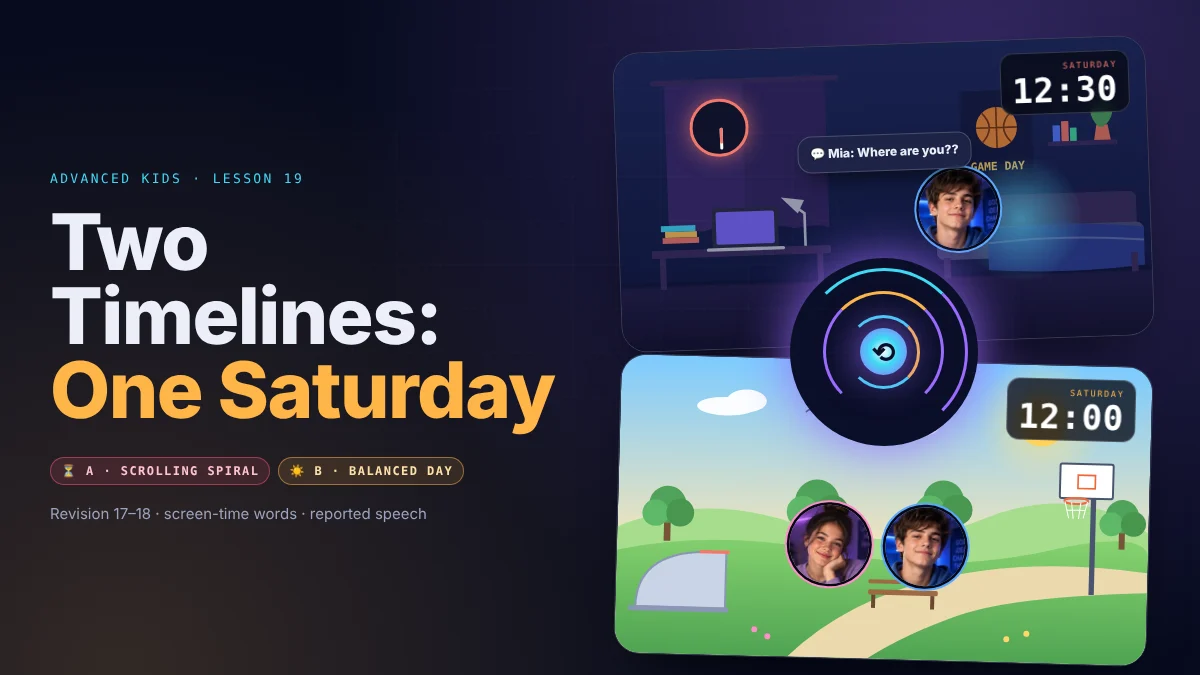
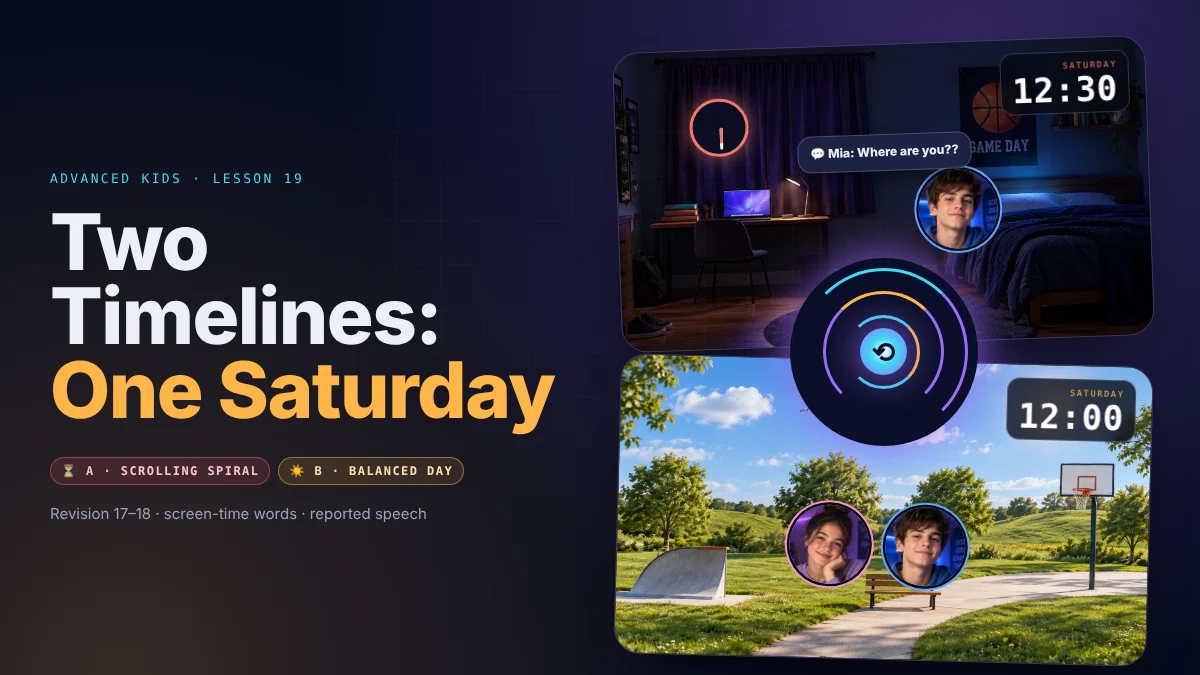
Add files via upload

Changed region(s): [[0.4933, 0.0311, 0.9867, 0.9956], [0.925, 0.5289, 0.9558, 0.56], [0.8017, 0.5289, 0.8325, 0.56]]

diff --git a/lessons/lesson-19/lesson-19.html b/lessons/lesson-19/lesson-19.html
@@ -1073,6 +1073,12 @@ details.ideas summary{cursor:pointer; font-weight:800}
 @media (max-width:760px){ .s7 div{grid-template-columns:1fr} .verbs[style]{grid-template-columns:1fr!important} }
 .sph .grow{flex:1 1 auto; min-width:0}
 .sph .tag{flex:0 0 auto; font-size:10.5px; padding:3px 8px}
+/* photo scene backgrounds */
+.art>img.bg{position:absolute; inset:0; width:100%; height:100%; object-fit:cover; display:block; z-index:0; user-select:none}
+.art.dark>img.bg{filter:saturate(1.05)}
+.art .sunglow{mix-blend-mode:screen; opacity:.7}
+.final{max-width:1000px; margin:0 auto}
+.final .art{max-width:none}
 
 </style>
 </head>
@@ -1299,8 +1305,11 @@ function parkSVG(){
  </svg>`;
 }
 /* one illustration with photo overlays. o: {clock, label, who:[[k,x,y,'sm'?]], flo:[[text,x,y]], cap, fast:[x,y], cls} */
+const SCENE_IMG = { sun:'img/room-morning.webp', dark:'img/room-timeline-a.webp', eve:'img/room-evening.webp', park:'img/park.webp' };
+window.__artFallback = (el,kind)=>{ el.onerror=null; el.outerHTML = kind==='park'?parkSVG():bedroomSVG(kind); };
 function art(kind, o={}){
-  const svg = kind==='park'?parkSVG():bedroomSVG(kind);
+  /* photo backgrounds (img/). If a file is missing, the drawn SVG version appears instead. */
+  const svg = `<img class="bg" src="${SCENE_IMG[kind]}" alt="" draggable="false" onerror="__artFallback(this,'${kind}')">`;
   const ovs=(o.who||[]).map(([k,x,y,sm])=>`<div class="ov ${sm?'sm':''}" style="left:${x}%;top:${y}%">${av(k,0)}${o.names?`<span class="nm">${CHARS[k].name}</span>`:''}</div>`).join('');
   const flo=(o.flo||[]).map(([t,x,y])=>`<span class="flo" style="left:${x}%;top:${y}%">${t}</span>`).join('');
   return `<div class="art ${kind==='dark'?'dark':''} ${o.cls||''}">${svg}${kind==='sun'&&!REDUCED?'<div class="sunglow"></div>':''}${ovs}${flo}
@@ -1380,7 +1389,7 @@ const TL = {
 function tlArt(L,k){
   if(L==='A') return [
     ()=>art('sun',{clock:'09:15', who:[['leo',68,56]], flo:[['😂 +1 video',18,30],['▶ Up next…',40,72]]}),
-    ()=>art('dark',{clock:'11:30', who:[['leo',68,56]], fast:[12,12], flo:[['🔔 +23 notifications',30,28],['📳 Group chat (48)',22,70],['▶ Autoplay ON',48,42]]}),
+    ()=>art('dark',{clock:'11:30', who:[['leo',68,56]], fast:[12,12], flo:[['🔔 +23 notifications',30,28],['📳 Group chat (48)',22,70],['▶ Autoplay ON',40,60]]}),
     ()=>art('dark',{clock:'12:30', who:[['leo',68,56]], flo:[['💬 Mia: Where are you?? 😕',30,30],['📞 2 missed calls',24,68]]}),
     ()=>art('eve',{clock:'19:00', who:[['leo',68,56]], flo:[['😔 “I missed it…”',30,34]]})][k]();
   return [
@@ -2803,6 +2812,7 @@ else {
   });
   if(S.i>=STEPS.length || !visible(S.i)) S.i=0;
   Object.values(CHARS).forEach(c=>{ if(c.photo){ const im=new Image(); im.src=c.photo; } });
+  Object.values(SCENE_IMG).forEach(src=>{ const im=new Image(); im.src=src; });
   draw(true);
   if(S.live) startLive(true);   // teacher refreshed the page → reopen the same room; phones stay connected
 }

diff --git a/lessons/lesson-19/README.md b/lessons/lesson-19/README.md
@@ -14,8 +14,8 @@ lessons/lesson-19/
 └── img/cover.webp      обкладинка картки на платформі
 ```
 
-Усі сцени (кімната Лео вранці / в «темній» лінії / ввечері, парк) — це SVG-ілюстрації всередині файлу
-з фото героїв поверх, тож окремих картинок не потрібно.
+Фони сцен — 4 картинки в `img/` (кімната вранці, «темна» кімната лінії A, кімната ввечері, парк). Фото героїв, годинник,
+сповіщення й анімації накладаються поверх. Якщо картинку не завантажено, на її місці показується намальована SVG-версія.
 
 ## 9 сцен (Core = 35 хв, як у брифі · Full ≈ 42 хв з бонусами)
 
